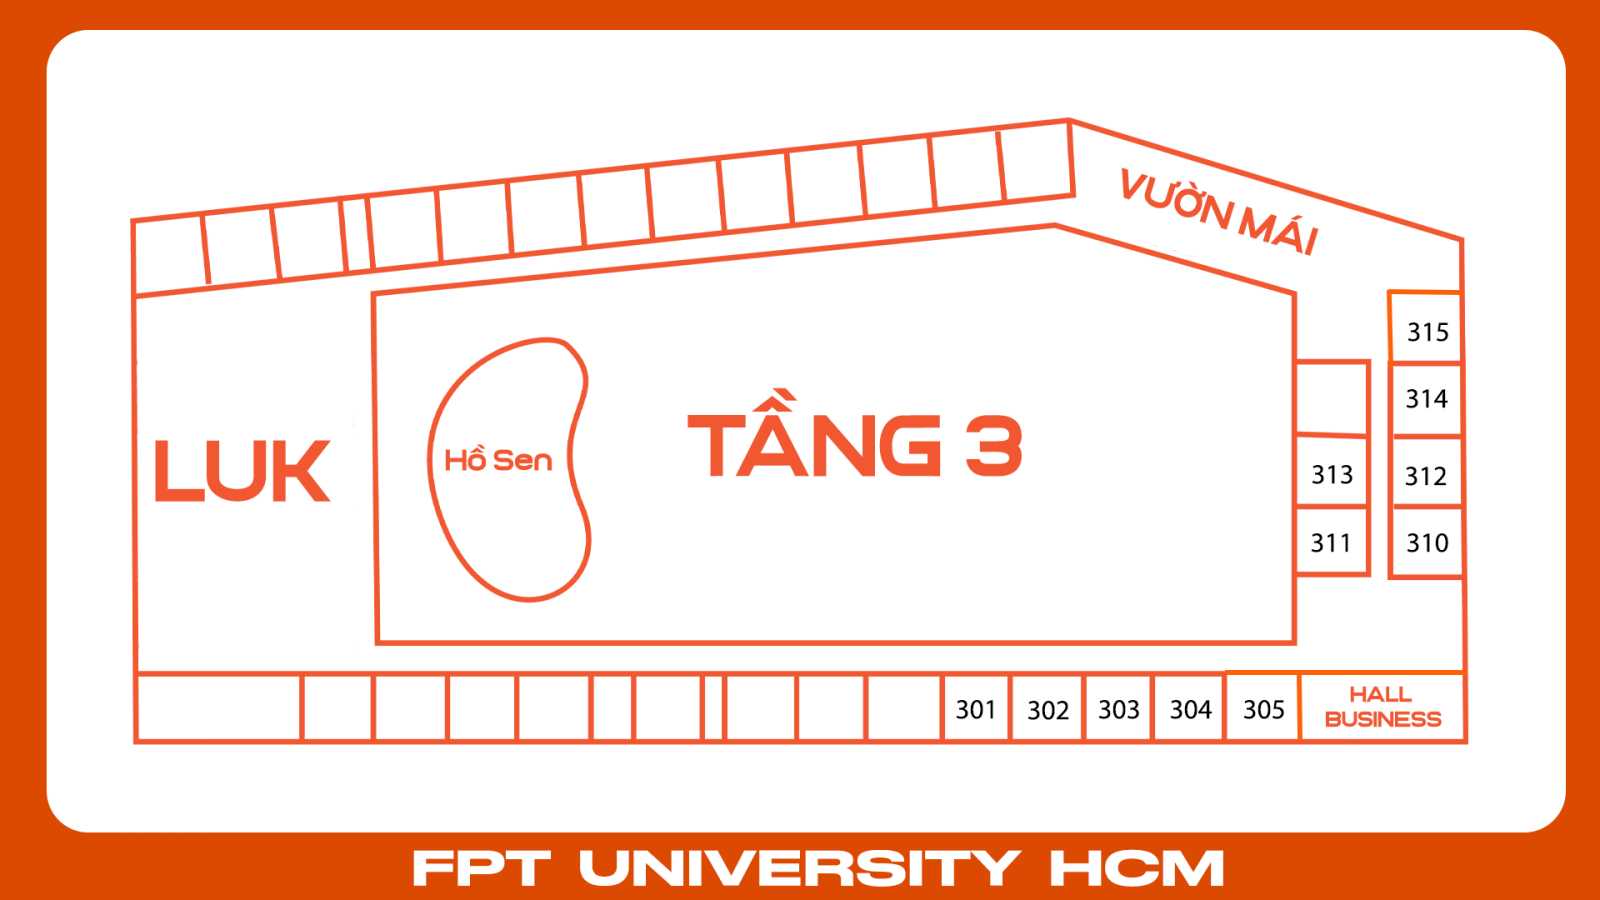
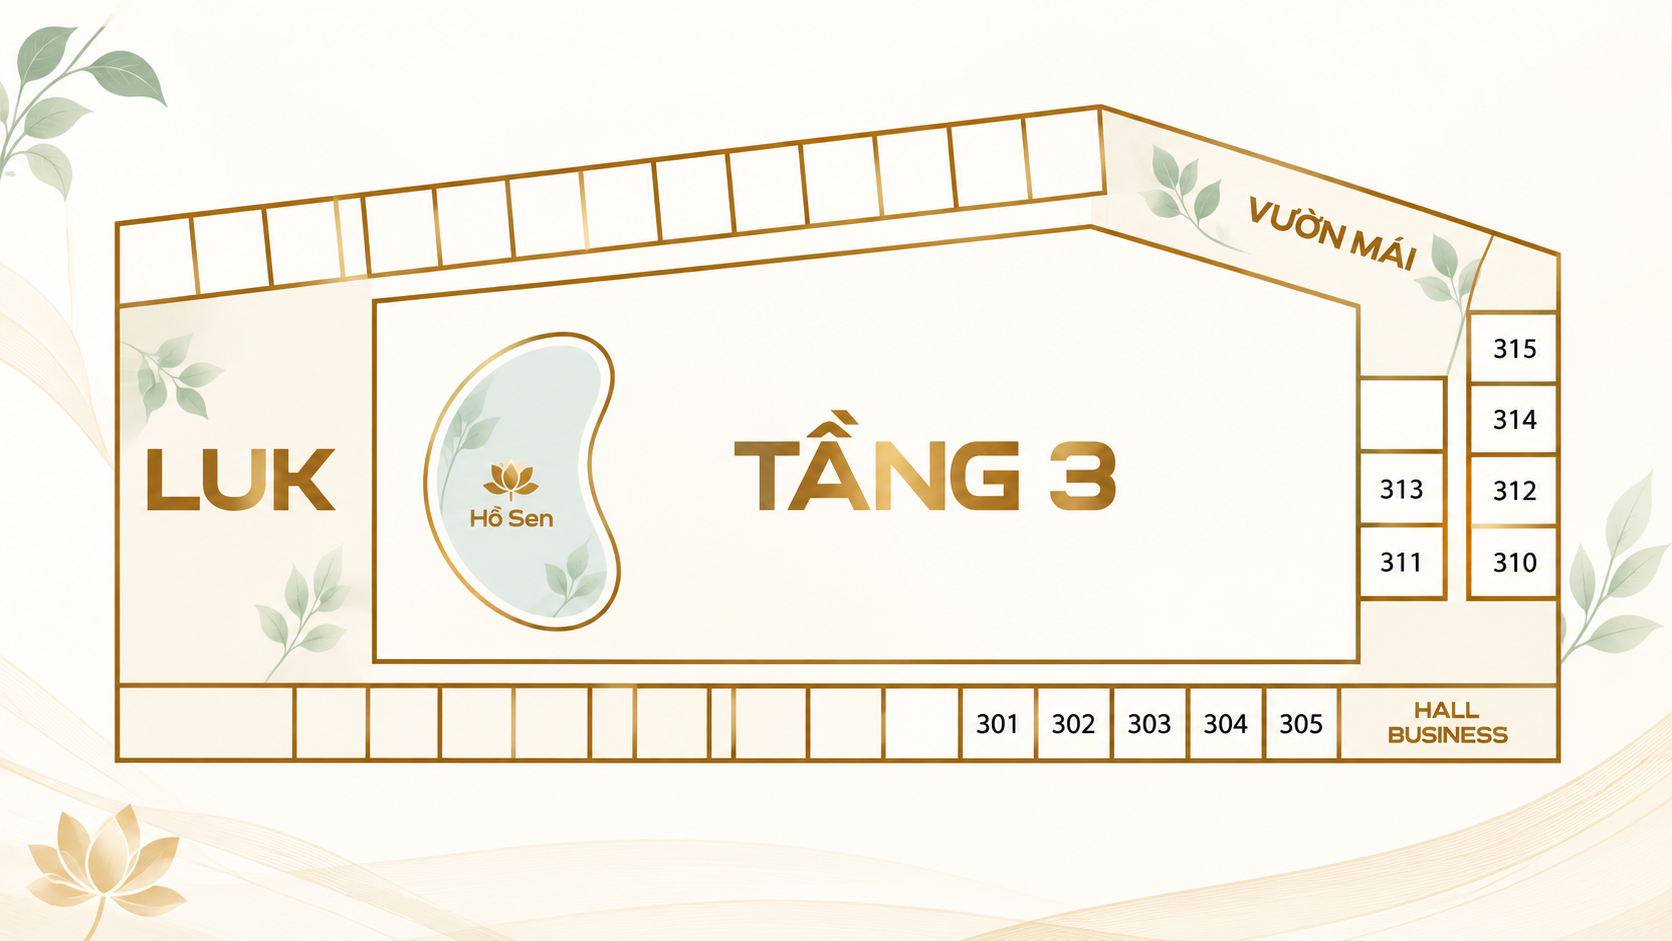
feat: sync updated high-res campus floor plan diagrams and add cache buster

diff --git a/src/pages/CampusGuidePage.tsx b/src/pages/CampusGuidePage.tsx
@@ -17,45 +17,45 @@ const FLOORS: FloorInfo[] = [
     id: 'G',
     label: 'Tầng G',
     title: 'Sảnh Chính & Lễ Tân',
-    image: '/image/tangGcampus.png',
+    image: '/image/tangGcampus.png?v=2',
     highlight: 'Cổng đón khách lễ tốt nghiệp',
   },
   {
     id: '1',
     label: 'Tầng 1',
     title: 'Thư Viện & Học Thuật',
-    image: '/image/tang1campus.png',
+    image: '/image/tang1campus.png?v=2',
   },
   {
     id: '2',
     label: 'Tầng 2',
     title: 'Phòng Lab & CNTT',
-    image: '/image/tang2campus.png',
+    image: '/image/tang2campus.png?v=2',
   },
   {
     id: '3',
     label: 'Tầng 3',
     title: 'Hội Trường Chính',
-    image: '/image/tang3campus.png',
+    image: '/image/tang3campus.png?v=2',
     highlight: 'Địa điểm tổ chức Lễ Tốt Nghiệp',
   },
   {
     id: '4',
     label: 'Tầng 4',
     title: 'Ẩm Thực & Nghỉ Ngơi',
-    image: '/image/tang4campus.png',
+    image: '/image/tang4campus.png?v=2',
   },
   {
     id: '5',
     label: 'Tầng 5',
     title: 'Thể Thao & CLB',
-    image: '/image/tang5campus.png',
+    image: '/image/tang5campus.png?v=2',
   },
   {
     id: '6',
     label: 'Tầng 6',
     title: 'Sân Thượng & Không Gian Mở',
-    image: '/image/tang6campus.png',
+    image: '/image/tang6campus.png?v=2',
     highlight: 'Điểm check-in chụp ảnh kỷ niệm',
   },
 ];
